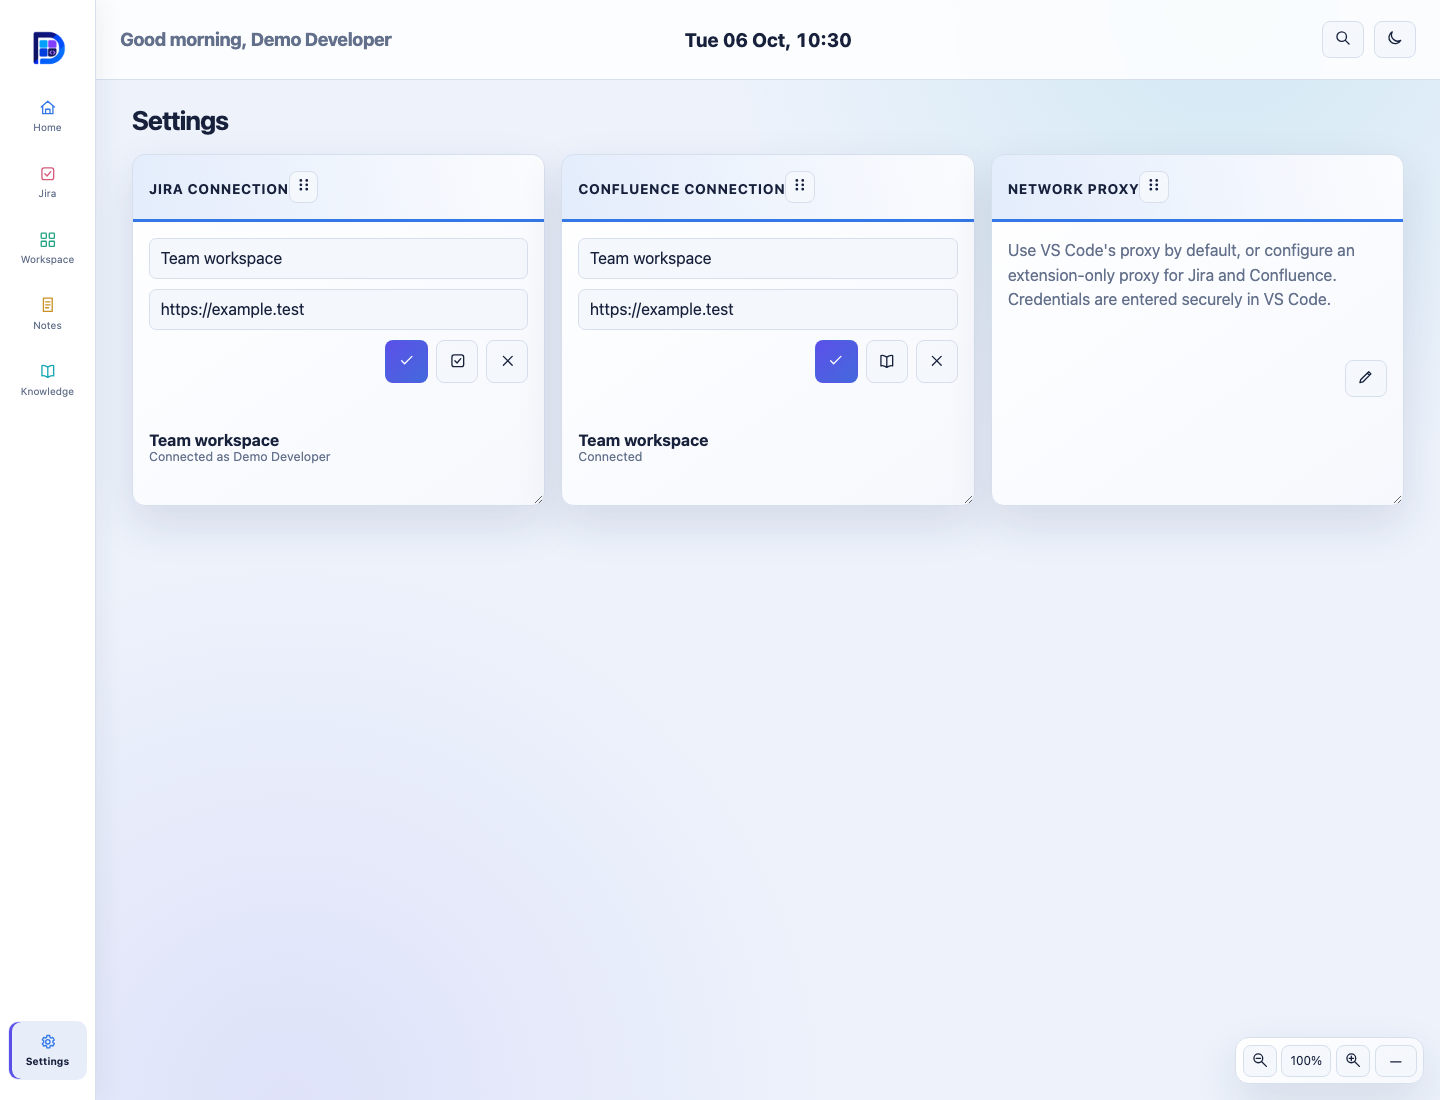
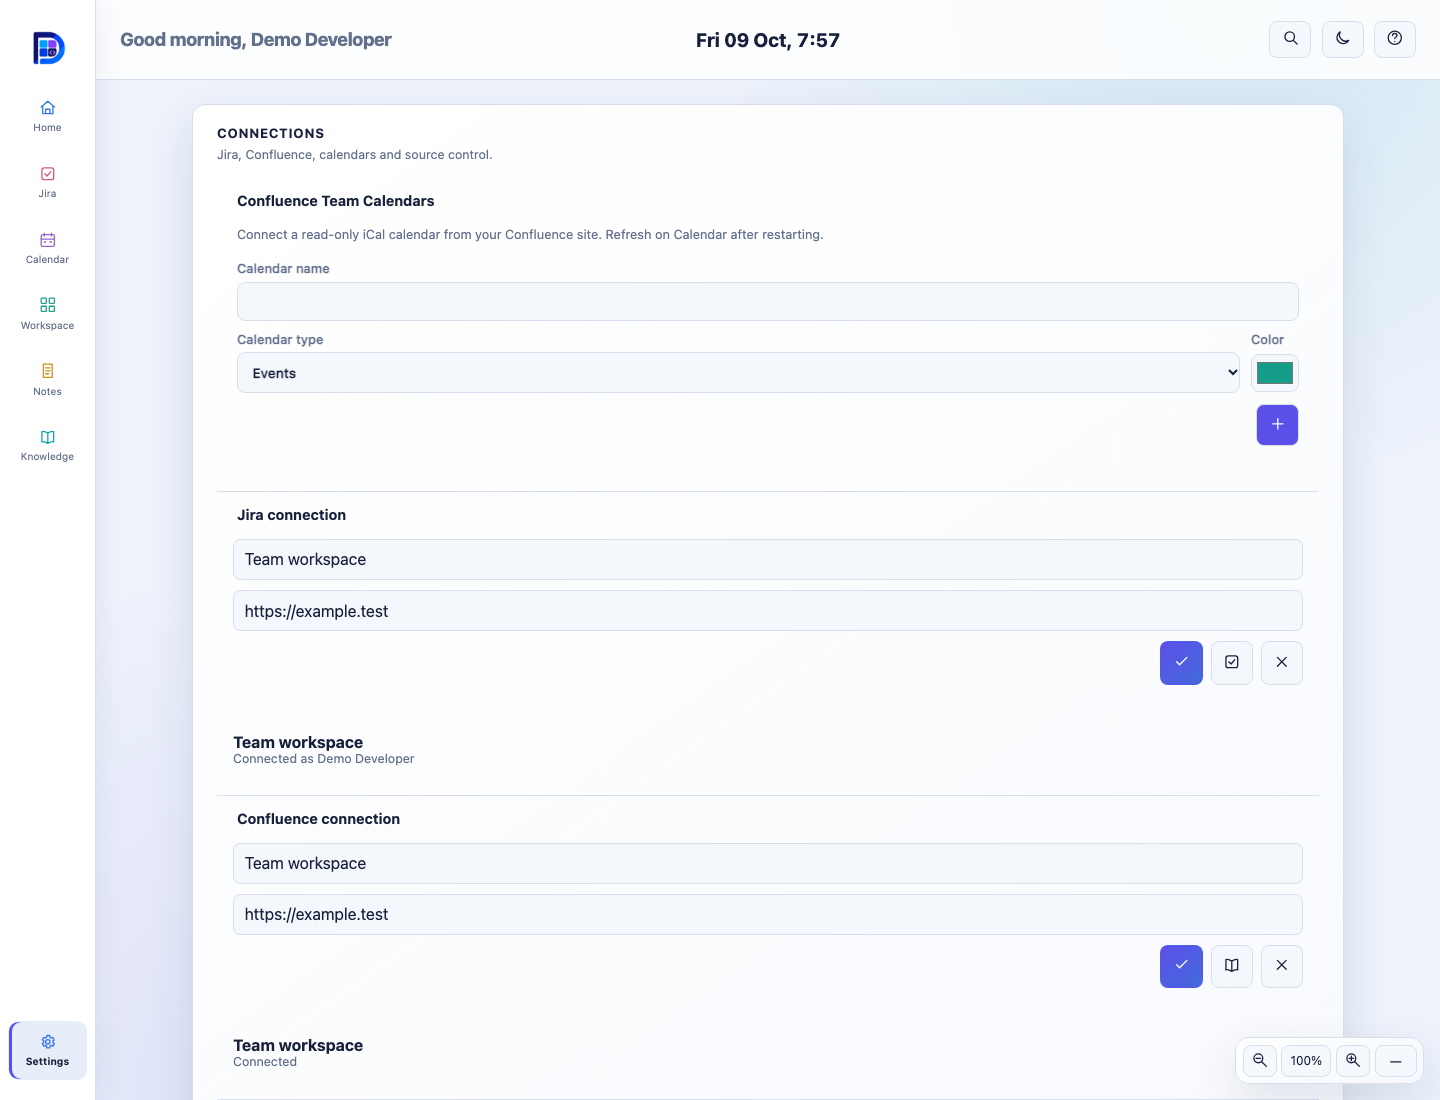
chore(release): prepare 0.1.17

diff --git a/src/webview/app/walkthroughScript.ts b/src/webview/app/walkthroughScript.ts
@@ -17,7 +17,11 @@ const tourSteps=[
 ];
 // Update these highlights alongside release notes when shipping new features.
 const updateSteps=[
- {page:"workspace",title:"Clone a GitHub repository",text:"After connecting a personal or Enterprise Managed User account in Settings, refresh GitHub repositories, choose an owner and use the clone icon. Successful clones are added to Project launcher."}
+ {page:"calendar",title:"Plan time and track leave",text:"Click a Planner date or time slot to add a plan, holiday or allowance-checked leave. Connected Team Calendars can be refreshed for the displayed year."},
+ {page:"jira",title:"Use Jira saved filters",text:"Load Saved filters with its refresh icon, then choose one to apply it without replacing the filter until the load succeeds."},
+ {page:"workspace",title:"Clone an authorized repository",text:"After connecting GitHub in Settings, refresh GitHub repositories, choose an owner and use the clone icon. Enterprise Managed User accounts are supported."},
+ {page:"settings",title:"Add your project IDEs",text:"Under Development, choose Add an IDE and select an installed application. VS Code remains available without setup."},
+ {page:"workspace",title:"Choose an IDE when opening a project",text:"In Project launcher, use a project's open icon and choose VS Code or a configured IDE for that launch."}
 ];
 const walkthroughPanel=document.createElement("section"),walkthroughProgress=document.createElement("div"),walkthroughTitle=document.createElement("h2"),walkthroughText=document.createElement("p"),walkthroughActions=document.createElement("div");
 walkthroughPanel.className="walkthrough";walkthroughPanel.hidden=true;walkthroughPanel.tabIndex=-1;walkthroughPanel.setAttribute("role","region");walkthroughPanel.setAttribute("aria-labelledby","walkthrough-title");walkthroughTitle.id="walkthrough-title";walkthroughProgress.className="walkthrough-progress";walkthroughProgress.setAttribute("aria-live","polite");walkthroughActions.className="walkthrough-actions";

diff --git a/tests/unit/walkthrough.test.ts b/tests/unit/walkthrough.test.ts
@@ -181,9 +181,22 @@ void describe("Dashboard walkthrough", () => {
     assert.equal(panel.hidden, true);
     assert.equal(page, "notes");
     send("update");
-    assert.match(panel.children[0]!.textContent, /What's new.*1 of 1/u);
+    assert.match(panel.children[0]!.textContent, /What's new.*1 of 5/u);
+    assert.equal(page, "calendar");
+    assert.match(panel.children[2]!.textContent, /allowance-checked leave/u);
+    assert.equal(next!.textContent, "Next");
+    next!.click();
+    assert.equal(page, "jira");
+    assert.match(panel.children[2]!.textContent, /Saved filters/u);
+    next!.click();
     assert.equal(page, "workspace");
     assert.match(panel.children[2]!.textContent, /Enterprise Managed User/u);
+    next!.click();
+    assert.equal(page, "settings");
+    assert.match(panel.children[2]!.textContent, /Add an IDE/u);
+    next!.click();
+    assert.equal(page, "workspace");
+    assert.match(panel.children[2]!.textContent, /open icon/u);
     assert.equal(next!.textContent, "Finish");
     skip!.click();
     assert.equal(page, "notes");

diff --git a/README.md b/README.md
@@ -16,10 +16,18 @@ A short tour appears on first use. Reopen it with the header's question-mark
 button. After an update, **What's new** highlights the changes once; use Skip
 or Escape to dismiss it.
 
-## Version 0.1.16
+## Version 0.1.17
 
-- Connect GitHub Enterprise Managed User accounts whose managed login includes an
-  enterprise shortcode, then browse and clone authorized repositories normally.
+- Plan events, holidays and allowance-checked leave in the Calendar, and display
+  read-only Confluence Team Calendar events after an explicit refresh.
+- Load Jira saved filters and render supported Jira and Confluence rich content.
+- Browse and clone authorized GitHub repositories, including Enterprise Managed
+  User accounts whose login contains an enterprise shortcode.
+- Open a saved project in VS Code or an external IDE selected for that launch.
+- Add or remove external IDEs under **Settings → Development** with the native
+  application picker; executable paths remain in the Extension Host.
+- Navigate the unified, categorized Settings list and use a purpose-matched
+  repository clone icon in GitHub repositories.
 
 ## Screenshots
 
